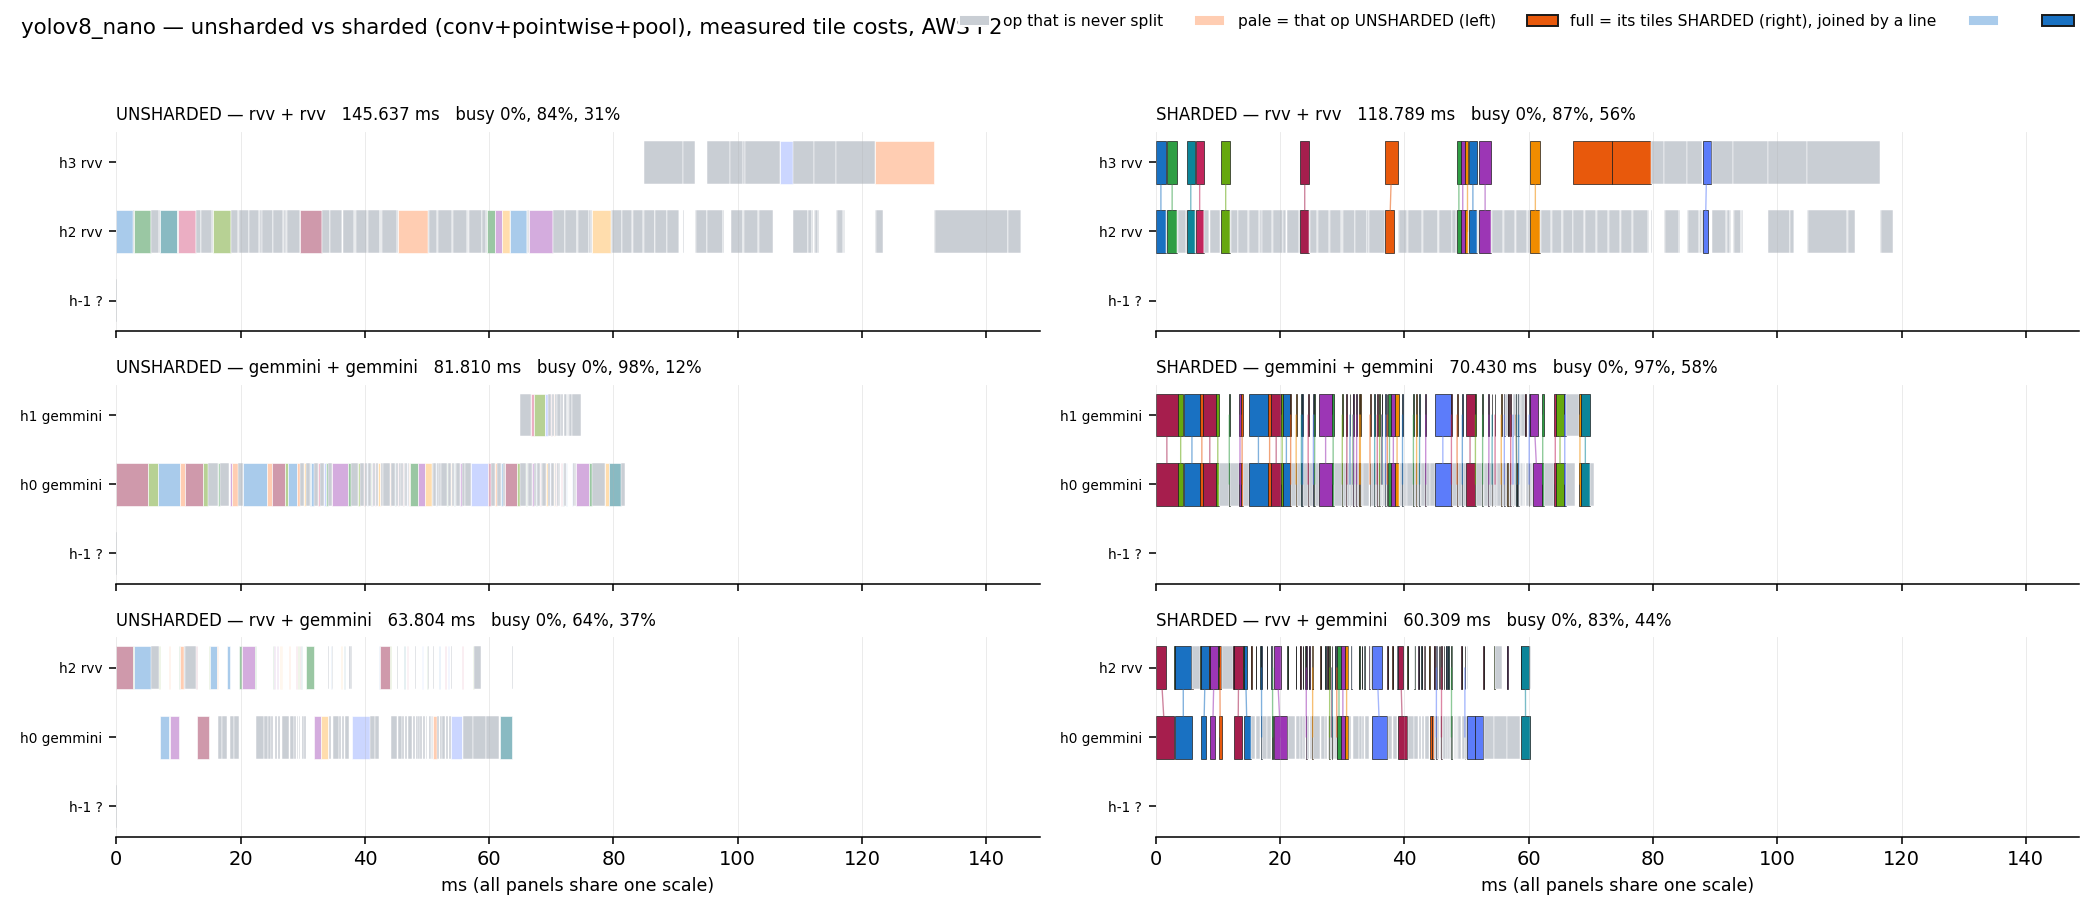
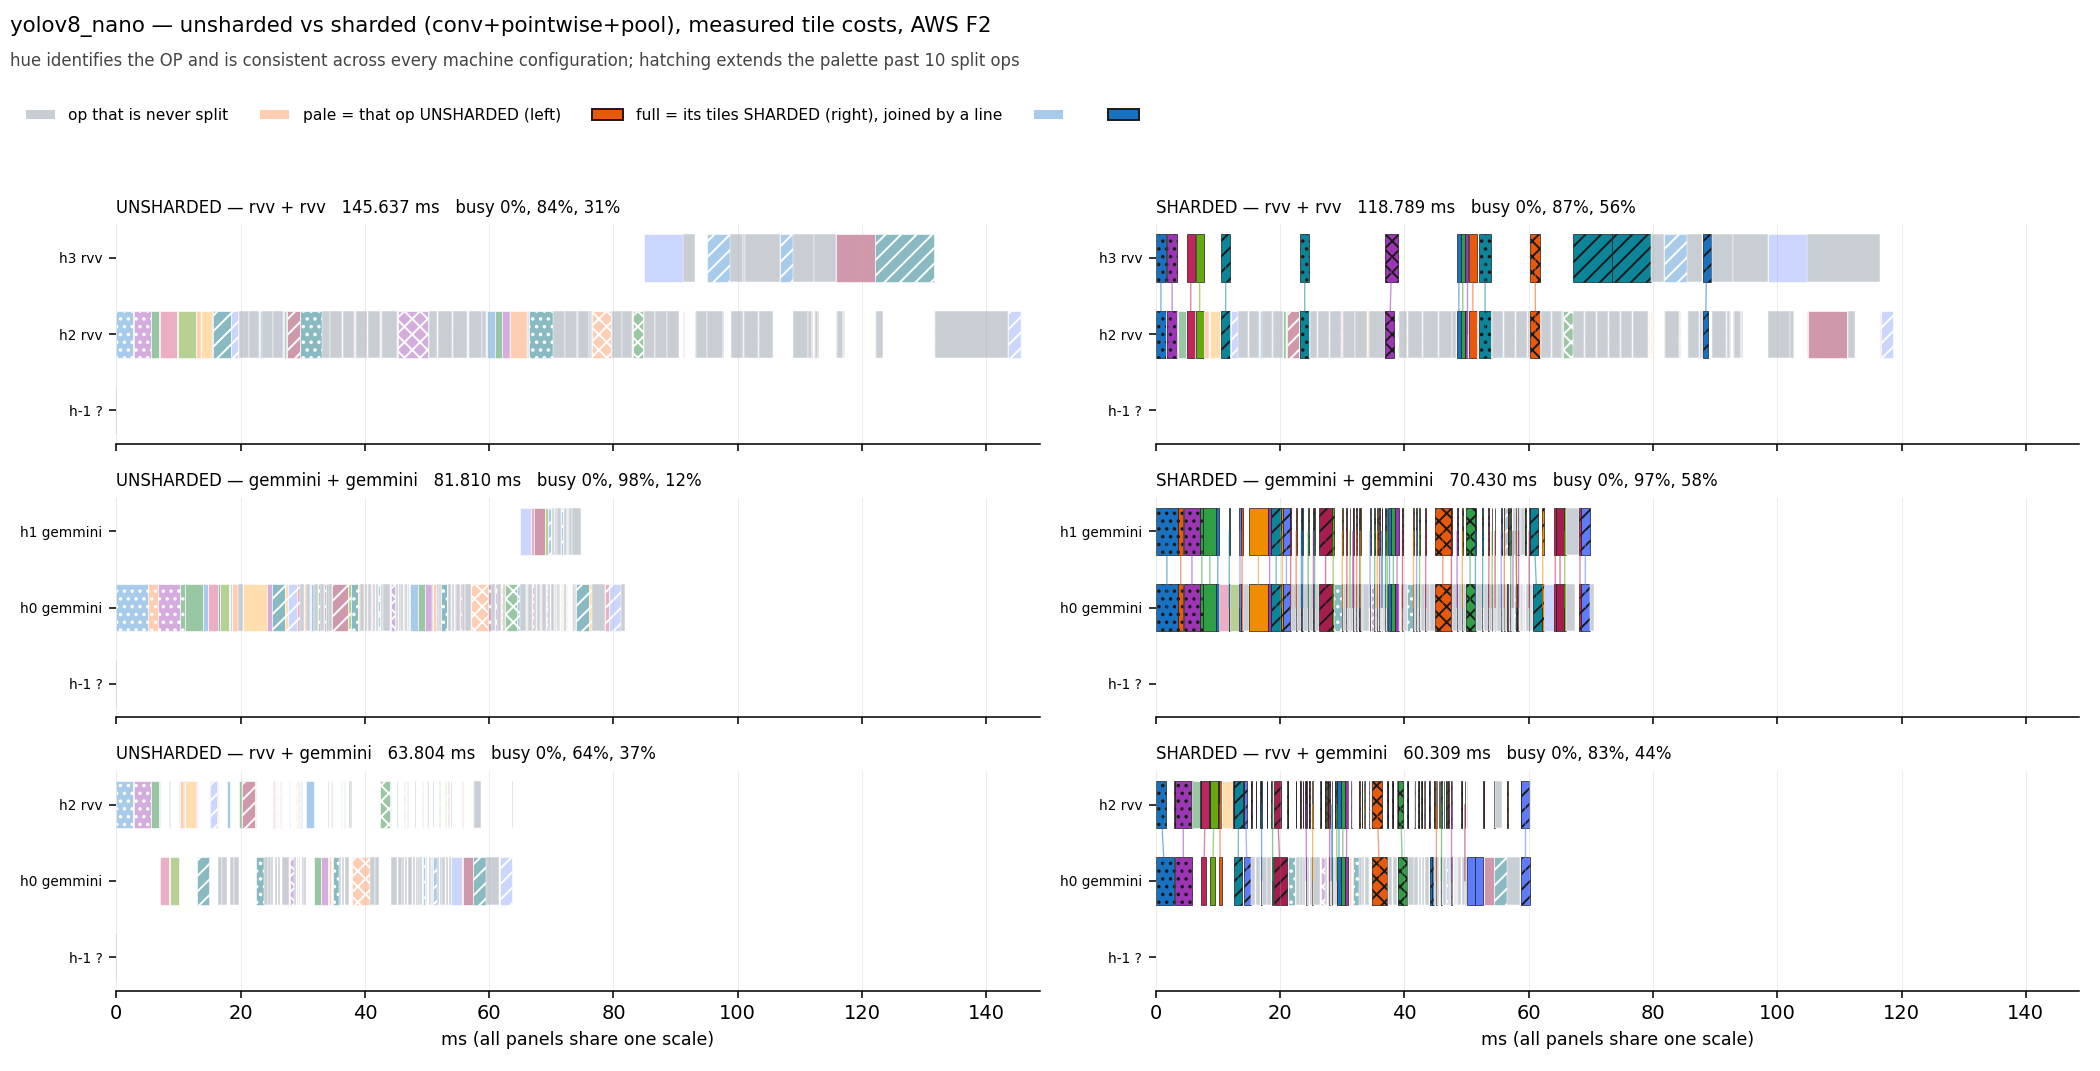
experiments: redo the best-axis search on measured tile costs
best_axis.py picks each conv's split axis by MEASUREMENT rather than model: two
trees per network (every splittable conv on OC, then every one on OH), each run
on one hart per backend, so summing a conv's tiles gives its real cost under
that axis there. --pair decides which backends the choice consults, because an
rvv pair cannot place a tile on gemmini and must choose on rvv's numbers alone.

Result: the per-backend divergence is real -- dronet splits 5 OC / 5 OH on rvv
and 9 OC / 1 OH on gemmini -- but the inherited choices were mostly right.
gempair's all-OC is vindicated; rvvpair agrees on 8 of 10. One improvement:
conv_modules.8 inherited OC and measures 1.60x faster on OH.

This CORRECTS two things I reported from the Gantt charts. conv_modules.0 on
gemmini is OC 1.668 vs OH 1.676 -- a tie, not OH-by-12%; the earlier figure
compared tiles from two partitions that divide the work differently across
backends. And gempair's all-OC was not stale.

Two gaps recorded rather than papered over: the generator emits EVEN splits
only, so dronet's three OH=7 convs were never evaluated on OH (absence of data,
not a verdict), and yolov8_nano's all-OH profile returns max_abs_err=35, so
yolo's OH column is unusable until bisected.

Claude-Session: https://claude.ai/code/session_016FZJBMj4iUznoDoS6GgxGm

diff --git a/experiments/shard_dim/scripts/pair_gantt.py b/experiments/shard_dim/scripts/pair_gantt.py
@@ -44,18 +44,27 @@ for s in specs:
 span = max((max(e for _, _, e, _, _, _ in d) - min(t for _, t, _, _, _, _ in d))
            for _, a, c in rows for d, _ in (a, c) if d)
 nets = sorted({n for _, a, c in rows for d, _ in (a, c) if d for *_, n in d})
-fig, axes = plt.subplots(len(rows), 2, figsize=(15, 1.75 * len(rows) + 1.3),
+fig, axes = plt.subplots(len(rows), 2, figsize=(15, 1.75 * len(rows) + 2.4),
                          squeeze=False, sharex=True)
+# ONE colour map for the WHOLE FIGURE, not per row. Building it per row keyed
+# colours to sorted-index within that row's own split set -- and the sets differ
+# per machine pair (dronet splits 14 ops on the rvv pair, 12 on the gemmini
+# pair, 7 on hetero), so the same hue meant a different op in each row and the
+# chart invited exactly the cross-config comparison it could not support.
+# HATCHING extends the palette: with more split ops than colours the cycle
+# wrapped and two ops in ONE panel shared a hue (rvvpair's purple was both
+# conv_modules.0 and maxpool1).
+_HATCH = ["", "///", "...", "xxx"]
+_all_parents = sorted({nm.split(".tile_")[0]
+                       for _, _a, _c in rows
+                       for _d, _ in (_a, _c) if _d
+                       for h, t, e, nm, op, net in _d if ".tile_" in nm})
+pcol = {par: _g.TILE_CYCLE[i % len(_g.TILE_CYCLE)]
+        for i, par in enumerate(_all_parents)}
+phat = {par: _HATCH[(i // len(_g.TILE_CYCLE)) % len(_HATCH)]
+        for i, par in enumerate(_all_parents)}
+
 for r, (lab, a, c) in enumerate(rows):
-    # ONE colour map per row, derived from the ops the SHARDED panel splits,
-    # and applied to BOTH panels. That is what makes an op followable: full
-    # saturation for its tiles on the right, the pale form of the same hue for
-    # the single block it was on the left.
-    _sd = c[0] if c else None
-    _parents = sorted({nm.split(".tile_")[0]
-                       for h, t, e, nm, op, net in (_sd or []) if ".tile_" in nm})
-    pcol = {par: _g.TILE_CYCLE[i % len(_g.TILE_CYCLE)]
-            for i, par in enumerate(_parents)}
     for col, (d, expected) in ((0, a), (1, c)):
         ax = axes[r][col]
         if not d:
@@ -86,15 +95,16 @@ for r, (lab, a, c) in enumerate(rows):
                     (harts.index(h), t - t0, e - t0))
         for h, t, e, nm, op, net in d:
             par = nm.split(".tile_")[0]
+            hat = ""
             if ".tile_" in nm and par in pcol:          # a tile, sharded side
-                bcol, ec, lw = pcol[par], "#1a1a1a", 0.35
+                bcol, ec, lw, hat = pcol[par], "#1a1a1a", 0.35, phat[par]
             elif par in pcol:                            # SAME op, unsharded side
-                bcol, ec, lw = _pale(pcol[par]), "white", 0.3
-            else:                                        # never split either side
+                bcol, ec, lw, hat = _pale(pcol[par]), "white", 0.3, phat[par]
+            else:                                        # never split ANYWHERE
                 bcol = _g.NET_COL.get(net, _g.FALLBACK) if multi_net else "#C9CED4"
                 ec, lw = "white", 0.25
             ax.barh(harts.index(h), max(e - t, span * 0.0004), left=t - t0,
-                    height=0.62, color=bcol, edgecolor=ec, linewidth=lw)
+                    height=0.62, color=bcol, edgecolor=ec, linewidth=lw, hatch=hat)
             busy[h] += e - t
         # Join the tiles of one parent across harts.
         for par, tiles in groups.items():
@@ -129,9 +139,12 @@ else:
               label="full = its tiles SHARDED (right), joined by a line"),
         Patch(facecolor=_pale(_g.TILE_CYCLE[1]), edgecolor="white", label=None),
         Patch(facecolor=_g.TILE_CYCLE[1], edgecolor="#1a1a1a", label=None)]
-fig.legend(handles=legend, loc="upper right", fontsize=8, frameon=False,
-           ncol=len(legend))
-fig.suptitle(title, fontsize=11, x=0.01, ha="left")
-fig.tight_layout(rect=[0, 0, 1, 0.955])
+fig.legend(handles=legend, loc="upper left", bbox_to_anchor=(0.005, 0.912),
+           fontsize=8, frameon=False, ncol=len(legend))
+fig.suptitle(title, fontsize=11, x=0.005, y=0.985, ha="left")
+fig.text(0.005, 0.938, "hue identifies the OP and is consistent across every machine "
+         "configuration; hatching extends the palette past 10 split ops",
+         fontsize=8.5, ha="left", color="#444")
+fig.tight_layout(rect=[0, 0, 1, 0.875])
 fig.savefig(out, dpi=140)
 print(f"  wrote {out}")

diff --git a/experiments/shard_dim/scripts/best_axis.py b/experiments/shard_dim/scripts/best_axis.py
@@ -1,0 +1,87 @@
+#!/usr/bin/env python3
+"""Pick each conv's split axis from MEASURED tile costs, not a model.
+
+  best_axis.py <net> [--pair rvvpair|gempair|hetero] [--emit]
+
+The previous best-axis result (dronet 1.88x on 2 rvv harts vs 1.37x all-OC) was
+chosen against a cost model, and measured tile costs have since shown that model
+under-prices OC and OH by 37-45% on gemmini. So the choice needs redoing on
+measurement.
+
+Method: two trees per network -- every splittable conv on OC, then every one on
+OH -- each run on ONE hart per backend. A single-hart run measures each tile in
+isolation, so summing a conv's tiles gives that conv's real cost under that axis
+on that backend. The axis with the lower sum wins.
+
+`--pair` decides which backend(s) the choice consults: an rvv pair can only ever
+run the tile on rvv, so it must choose on rvv's numbers alone.
+"""
+import argparse, glob, os, re, sys, collections
+
+OUT = "/scratch/dima/rose-infra/RoSE/experiments/sweep3net"
+ARMS = {"serialE": "rvv", "serialP": "gemmini"}
+
+
+def tiles(tag):
+    """{parent_op_name: (n_tiles, total_us)} for a single-hart split run."""
+    p = next((x for x in glob.glob(f"{OUT}/res_{tag}/**/uartlog", recursive=True)
+              if os.path.exists(x)), None)
+    if not p:
+        return None
+    t = open(p, errors="ignore").read()
+    if not re.search(r"xpurt-runner: schedule=" + re.escape(tag) + r"\b", t):
+        return None
+    agg = collections.defaultdict(lambda: [0, 0])
+    for l in t.split("\n"):
+        f = l.split(",")
+        if not (re.match(r"^\d+,", l) and len(f) == 14):
+            continue
+        if ".tile_" not in f[5]:
+            continue
+        par = f[5].split(".tile_")[0]
+        agg[par][0] += 1
+        agg[par][1] += int(f[-1]) - int(f[-2])
+    return {k: tuple(v) for k, v in agg.items()}
+
+
+def main():
+    ap = argparse.ArgumentParser()
+    ap.add_argument("net"); ap.add_argument("--pair", default=None)
+    ap.add_argument("--emit", action="store_true",
+                    help="print mk_split args for the winning axes")
+    a = ap.parse_args()
+    arms = {"rvvpair": ["serialE"], "gempair": ["serialP"],
+            "hetero": ["serialE", "serialP"]}.get(a.pair, list(ARMS))
+
+    data = {(ax, arm): tiles(f"{a.net}_{arm}_ax{ax}") for ax in ("OC", "OH")
+            for arm in arms}
+    missing = [k for k, v in data.items() if v is None]
+    if missing:
+        sys.exit(f"missing profiles: {missing} -- run the axis_search first")
+
+    print(f"\n  {a.net}  best split axis from MEASURED tile costs"
+          f"{'  (pair=' + a.pair + ')' if a.pair else ''}")
+    print(f"  {'conv':<26}" + "".join(f"{ARMS[m]+' OC':>12}{ARMS[m]+' OH':>12}" for m in arms)
+          + f"{'winner':>10}{'gain':>8}")
+    print("  " + "-" * (26 + 24 * len(arms) + 18))
+    wins = collections.Counter(); args = []
+    for conv in sorted({k for v in data.values() for k in v}):
+        cells, tot = [], {}
+        for m in arms:
+            for ax in ("OC", "OH"):
+                v = (data[(ax, m)] or {}).get(conv)
+                cells.append(f"{v[1]/1000.0:12.3f}" if v else f"{'-':>12}")
+                if v:
+                    tot[ax] = tot.get(ax, 0) + v[1]
+        if len(tot) < 2:
+            win, gain = (next(iter(tot)) if tot else "-"), ""
+        else:
+            win = min(tot, key=tot.get)
+            lose = "OH" if win == "OC" else "OC"
+            gain = f"{tot[lose]/tot[win]:.2f}x"
+        wins[win] += 1
+        print(f"  {conv[:25]:<26}" + "".join(cells) + f"{win:>10}{gain:>8}")
+    print(f"\n  winners: " + ", ".join(f"{k}={v}" for k, v in sorted(wins.items())))
+
+
+main()
